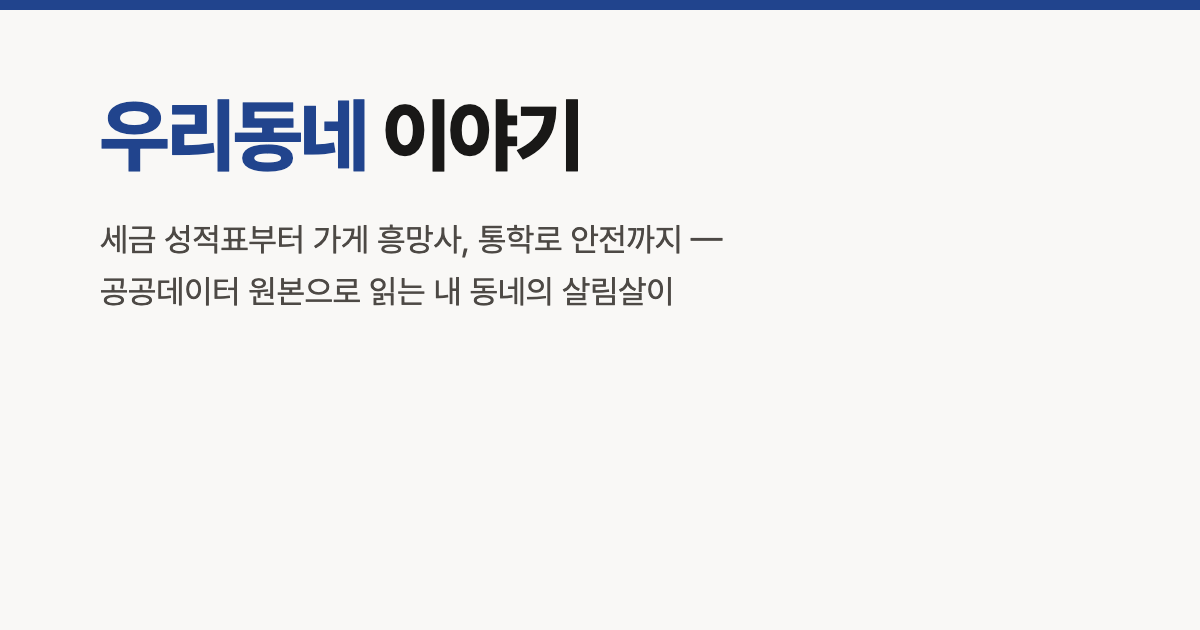
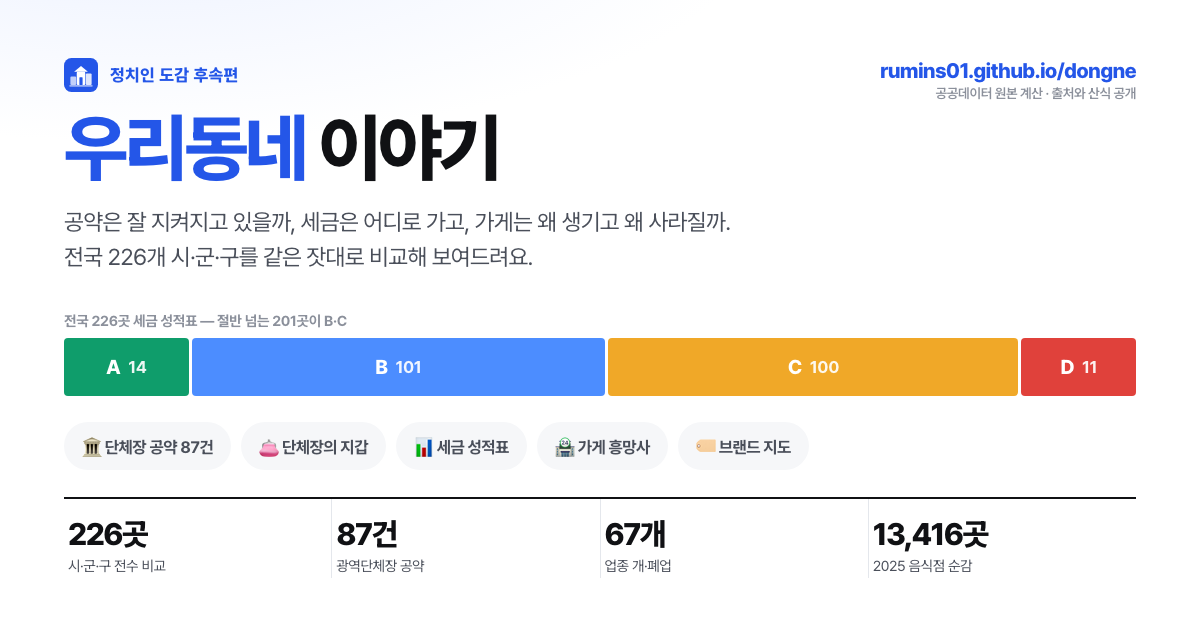
파비콘·OG 이미지 새로 만들고, 가게 흥망사 업종에 이모지 추가
- 파비콘: 파란 사각 안에 집 1채 + 좌우 막대 2개 (동네 + 데이터). svg/32px/180px/512px
- OG 이미지 교체: 옛 이미지가 삭제된 '통학로 안전' 기능을 홍보하고 있었음.
  새 이미지는 등급 분포 막대 + 기능 칩 + 핵심 숫자 4개로 실제 서비스 내용을 담음
- 업종 67종에 각각 이모지 매핑(CAT_EMO) + 음식점 업태 등은 키워드 매칭(CAT_EMO_KW)
- theme-color 메타 추가

diff --git a/app.js b/app.js
@@ -565,6 +565,41 @@ function sidoBody(sk, subTitle){
   return h;
 }
 
+/* ---------- 업종 이모지 ---------- */
+var CAT_EMO = {
+  'DVD·비디오방':'📼','PC방':'🖥','간판·광고업':'🪧','겨울스포츠시설':'⛷','골프연습장':'🏌','골프장':'⛳',
+  '공연장':'🎭','관광식당':'🍱','관광펜션':'🏡','관광호텔':'🏨','구내식당':'🍚','노래방':'🎤','농어촌민박':'🌾',
+  '단란주점':'🍻','담배소매(편의점 프록시)':'🚬','당구장':'🎱','대형마트·백화점':'🏬','도시민박(게스트하우스)':'🛏',
+  '동물병원':'🐶','동물생산업(번식장)':'🐕','동물약국':'💉','동물카페·전시':'🐰','멀티방·복합게임장':'🎮',
+  '목욕탕·사우나':'🧖','무도장·댄스학원':'💃','미용실':'💇','박물관·미술관':'🏛','반려동물 장묘':'🕊',
+  '병원':'🏥','산후조리원':'👶','상조업':'🕯','성인게임장':'🎰','세탁소':'🧺','수영장':'🏊','숙박업':'🛎',
+  '승마장':'🐴','안경점':'👓','안마·의료유사업':'💆','애견미용':'🐩','애견호텔·유치원':'🦮','약국':'💊',
+  '여행사':'✈','영화관':'🎬','오락실':'👾','요트장':'⛵','유흥주점':'🍸','의원':'🩺','이발소':'💈',
+  '인쇄소':'🖨','일반음식점':'🍽','자판기':'🥤','전통사찰':'🪷','정육점':'🥩','제과점':'🥐',
+  '종량제봉투 판매소':'🗑','종합체육시설':'🏟','주유소':'⛽','즉석판매(반찬·떡집)':'🍡','직업소개소':'📋',
+  '체육도장(태권도 등)':'🥋','카페·휴게음식점':'☕','캠핑장':'🏕','테마파크':'🎡','펫샵':'🐾',
+  '편의점 상비약':'🏪','한옥체험':'🏯','헬스장':'🏋'
+};
+/* 음식점 업태구분 등, 위 표에 없는 이름은 키워드로 맞춘다 */
+var CAT_EMO_KW = [
+  ['한식','🍚'],['중국식','🥡'],['중식','🥡'],['일식','🍣'],['경양식','🍝'],['양식','🍝'],
+  ['호프','🍺'],['통닭','🍗'],['치킨','🍗'],['커피','☕'],['카페','☕'],['분식','🍢'],
+  ['패스트푸드','🍔'],['패밀리레스토랑','🍽'],['뷔페','🍽'],['김밥','🍙'],['도시락','🍱'],
+  ['출장조리','🚚'],['정종','🍶'],['대포','🍶'],['횟집','🐟'],['회','🐟'],['식육','🥩'],
+  ['제과','🥐'],['아이스크림','🍦'],['주점','🍻'],['술','🍻'],['펜션','🏡'],['민박','🛏'],
+  ['호텔','🏨'],['모텔','🛎'],['병원','🏥'],['약국','💊'],['동물','🐾'],['애견','🐩'],['반려','🐾'],
+  ['체육','🏋'],['스포츠','🏋'],['게임','🎮'],['노래','🎤'],['영화','🎬'],['미용','💇'],['이용','💈'],
+  ['세탁','🧺'],['목욕','🧖'],['숙박','🛎'],['식당','🍽'],['음식','🍽'],['마트','🏬'],['편의점','🏪']
+];
+function catEmo(nm){
+  if (nm == null) return '';
+  var s = String(nm);
+  if (CAT_EMO[s]) return CAT_EMO[s];
+  for (var i=0; i<CAT_EMO_KW.length; i++) if (s.indexOf(CAT_EMO_KW[i][0]) >= 0) return CAT_EMO_KW[i][1];
+  return '🏬';
+}
+function catLabel(nm){ return '<span class="cemo" aria-hidden="true">'+catEmo(nm)+'</span>'+esc(nm); }
+
 /* ---------- 단체장의 지갑: 차트 헬퍼 ---------- */
 var WCOL = {giwan:'#2456E8', sichaek:'#EC4899', festa:'#F0A828', trip:'#8B5CF6', cash:'#14B8A6'};
 
@@ -885,7 +920,7 @@ function renderBiz(gu){
   cats.forEach(function(c){
     var g = C.byCat[c] && C.byCat[c].gu[gu]; if (!g) return;
     var coh = C.byCat[c].cohort1920;
-    h += '<tr><td>'+esc(c)+'</td><td class="right">'+g.open.toLocaleString()+'</td><td class="right">'+(g.openByYear[2025]||0).toLocaleString()+'</td><td class="right">'+(g.closeByYear[2025]||0).toLocaleString()+'</td><td class="right">'+(g.medianLifeM?Math.round(g.medianLifeM/12*10)/10+'년':'—')+'</td><td class="right">'+(coh&&coh.s5!=null?pct(coh.s5):'—')+'</td></tr>';
+    h += '<tr><td>'+catLabel(c)+'</td><td class="right">'+g.open.toLocaleString()+'</td><td class="right">'+(g.openByYear[2025]||0).toLocaleString()+'</td><td class="right">'+(g.closeByYear[2025]||0).toLocaleString()+'</td><td class="right">'+(g.medianLifeM?Math.round(g.medianLifeM/12*10)/10+'년':'—')+'</td><td class="right">'+(coh&&coh.s5!=null?pct(coh.s5):'—')+'</td></tr>';
   });
   h += '</table><div class="fine">* 생존율은 서울 전체 2019~2020년 개업 코호트가 5년을 버틴 비율이에요(구 단위가 아니라 서울 기준). 중위 영업기간은 이미 폐업한 가게들 기준이라 살아있는 가게가 길게 버틸수록 실제 수명은 이보다 길어요.</div></div></section>';
 
@@ -900,7 +935,7 @@ function renderBiz(gu){
   if (trend2.length){
     h += '<section><h2><span class="emo">🔥</span>요즘 뜨고 지는 업종 <small>2025년 순증감(개업−폐업) · '+esc(gu)+'</small></h2><div class="rule-card"><table class="tn"><tr><th>업종</th><th class="right">2025 개업</th><th class="right">2025 폐업</th><th class="right">순증감</th><th class="right">2019 순증감</th></tr>';
     trend2.forEach(function(t){
-      h += '<tr><td>'+esc(t.c)+'</td><td class="right">'+t.o.toLocaleString()+'</td><td class="right">'+t.x.toLocaleString()+'</td><td class="right"><b class="'+(t.net25>=0?'pos':'neg')+'">'+(t.net25>0?'+':'')+t.net25.toLocaleString()+'</b></td><td class="right muted">'+(t.net19>0?'+':'')+t.net19.toLocaleString()+'</td></tr>';
+      h += '<tr><td>'+catLabel(t.c)+'</td><td class="right">'+t.o.toLocaleString()+'</td><td class="right">'+t.x.toLocaleString()+'</td><td class="right"><b class="'+(t.net25>=0?'pos':'neg')+'">'+(t.net25>0?'+':'')+t.net25.toLocaleString()+'</b></td><td class="right muted">'+(t.net19>0?'+':'')+t.net19.toLocaleString()+'</td></tr>';
     });
     h += '</table><div class="fine">순증감 = 그 해 개업 신고 − 폐업 신고. 코로나 이전 평상시였던 2019년과 나란히 놓았어요.</div></div></section>';
   }
@@ -1418,7 +1453,7 @@ function catRow(c, g){
   if (!g) return '';
   var o=+g.ob['2025']||0, x=+g.cb['2025']||0, net=o-x;
   var rate = g.open ? net/g.open*100 : null;
-  return '<tr><td>'+esc(c)+'</td><td class="right">'+fmtN(g.open)+'</td><td class="right">'+fmtN(o)+'</td><td class="right">'+fmtN(x)+'</td>'
+  return '<tr><td>'+catLabel(c)+'</td><td class="right">'+fmtN(g.open)+'</td><td class="right">'+fmtN(o)+'</td><td class="right">'+fmtN(x)+'</td>'
     +'<td class="right"><b class="'+(net>=0?'pos':'neg')+'">'+(net>0?'+':'')+fmtN(net)+'</b></td>'
     +'<td class="right '+(rate>=0?'pos':'neg')+'">'+(rate!=null?(rate>0?'+':'')+rate.toFixed(1)+'%':'—')+'</td>'
     +'<td class="right">'+(g.med?Math.round(g.med/12*10)/10+'년':'—')+'</td></tr>';
@@ -1446,7 +1481,7 @@ function bizSectionsHTML(u, key, opts){
   if (upKeys.length){
     h += '<section><h2><span class="emo">🍜</span>어떤 음식점이 많을까 <small>업태구분 · 영업 중 상위</small></h2><div class="rule-card" style="overflow-x:auto"><table class="tn"><tr><th>업태</th><th class="right">영업 중</th><th class="right">2025 개업</th><th class="right">2025 폐업</th><th class="right">순증감</th></tr>';
     upKeys.forEach(function(k){ var v=u.up[k]; var net=v.o25-v.x25;
-      h += '<tr><td>'+esc(k)+'</td><td class="right">'+fmtN(v.open)+'</td><td class="right">'+v.o25+'</td><td class="right">'+v.x25+'</td><td class="right"><b class="'+(net>=0?'pos':'neg')+'">'+(net>0?'+':'')+net+'</b></td></tr>'; });
+      h += '<tr><td>'+catLabel(k)+'</td><td class="right">'+fmtN(v.open)+'</td><td class="right">'+v.o25+'</td><td class="right">'+v.x25+'</td><td class="right"><b class="'+(net>=0?'pos':'neg')+'">'+(net>0?'+':'')+net+'</b></td></tr>'; });
     h += '</table><div class="fine">치킨집은 주로 "호프/통닭"·"통닭(치킨)", 분식은 "분식" 업태로 신고돼요.</div></div></section>';
   }
   var haveCats = [];
@@ -1584,7 +1619,7 @@ function renderSpotN(param){
         if (!scopeName) nh += '<p class="muted" style="margin:-6px 0 10px">위에서 지역을 고르면 그 지역 숫자와 전국 평균을 나란히 볼 수 있어요.</p>';
         nh += '<div class="rule-card" style="overflow-x:auto"><table class="tn"><tr><th>업종</th><th class="right">영업 중</th><th class="right">2025 개업</th><th class="right">2025 폐업</th><th class="right">순증감</th><th class="right">'+(scopeName?esc(scopeName):'전국')+' 증감률</th>'+(scopeName?'<th class="right">전국</th><th class="right">차이</th>':'')+'</tr>';
         rows.forEach(function(r){
-          nh+='<tr><td>'+esc(r.c)+'</td><td class="right">'+fmtN(r.open)+'</td><td class="right">'+fmtN(r.o)+'</td><td class="right">'+fmtN(r.x)+'</td><td class="right"><b class="'+(r.net>=0?'pos':'neg')+'">'+(r.net>0?'+':'')+fmtN(r.net)+'</b></td>';
+          nh+='<tr><td>'+catLabel(r.c)+'</td><td class="right">'+fmtN(r.open)+'</td><td class="right">'+fmtN(r.o)+'</td><td class="right">'+fmtN(r.x)+'</td><td class="right"><b class="'+(r.net>=0?'pos':'neg')+'">'+(r.net>0?'+':'')+fmtN(r.net)+'</b></td>';
           var rw = Math.min(Math.abs(r.rate),50)/50*100;
           nh+='<td><div class="tbar mini"><span class="track"><i style="width:'+rw.toFixed(0)+'%; background:'+(r.rate>=0?'var(--pos)':'var(--neg)')+'"></i></span><b class="tbv tn '+(r.rate>=0?'pos':'neg')+'">'+(r.rate>0?'+':'')+r.rate.toFixed(1)+'%</b></div></td>';
           if (scopeName){

diff --git a/index.html b/index.html
@@ -9,9 +9,13 @@
 <meta name="description" content="민선 9기 광역단체장의 공약과 2026년 예산, 시군구 226곳 세금 성적표, 전국 67개 업종의 개폐업까지. 공공데이터 원본으로 읽는 우리동네 이야기.">
 <meta property="og:title" content="우리동네 이야기 - 단체장의 약속과 예산, 세금 성적표, 가게 흥망사">
 <meta property="og:description" content="민선 9기 단체장 공약 87건과 2026 예산, 시군구 226곳 세금 성적표, 전국 67개 업종의 흥망까지. 공공데이터 원본으로 읽는 동네 이야기.">
+<link rel="icon" href="favicon.svg?v=1" type="image/svg+xml">
+<link rel="icon" href="favicon.png?v=1" sizes="32x32" type="image/png">
+<link rel="apple-touch-icon" href="apple-touch-icon.png?v=1">
+<meta name="theme-color" content="#2456E8">
 <link rel="canonical" href="https://rumins01.github.io/dongne/">
 <meta property="og:url" content="https://rumins01.github.io/dongne/">
-<meta property="og:image" content="https://rumins01.github.io/dongne/og.png">
+<meta property="og:image" content="https://rumins01.github.io/dongne/og.png?v=2">
 <meta property="og:site_name" content="우리동네 이야기">
 <meta property="og:locale" content="ko_KR">
 <meta property="og:type" content="website">
@@ -145,6 +149,7 @@ a.kpi:hover{background:var(--bg2)}
 .chiprow{display:flex; gap:7px; flex-wrap:wrap}
 
 /* ---------- table ---------- */
+.cemo{display:inline-block; width:1.35em; margin-right:2px; font-size:.95em; line-height:1; text-align:center; opacity:.95}
 table{width:100%; border-collapse:collapse; font-size:13.5px}
 th{text-align:left; font-weight:600; color:var(--ink3); font-size:12px; padding:0 10px 9px; border-bottom:1px solid var(--rule);
   letter-spacing:-.01em; white-space:nowrap}
@@ -433,6 +438,7 @@ footer{border-top:1px solid var(--rule); margin-top:48px; padding:28px 0 44px; f
   th[style*="min-width"]{min-width:0 !important}
   /* 숫자 토큰은 쪼개지 않는다 (keep-all + overflow-wrap:normal) */
   .tbv{white-space:nowrap}
+  .cemo{width:1.2em; margin-right:1px; font-size:.9em}
   .tbar{gap:5px}
   .tbar .track{display:none}
   .tbar .tbv{width:auto; font-size:12.5px}
@@ -460,9 +466,9 @@ footer{border-top:1px solid var(--rule); margin-top:48px; padding:28px 0 44px; f
 <main id="app" class="wrap"><div class="skel">불러오는 중이에요…</div></main>
 <div id="gtip"></div>
 <footer><div class="wrap" id="foot"></div></footer>
-<script src="data.js?v=57"></script>
-<script src="map.js?v=57"></script>
-<script src="app.js?v=57"></script>
+<script src="data.js?v=58"></script>
+<script src="map.js?v=58"></script>
+<script src="app.js?v=58"></script>
 <script>
 /* 화면 전체 핀치/더블탭 확대 차단 (iOS Safari는 user-scalable=no를 무시) */
 ['gesturestart','gesturechange','gestureend'].forEach(function(t){
